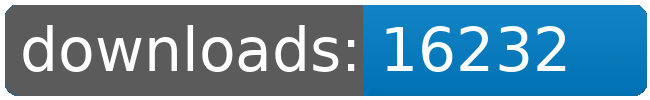
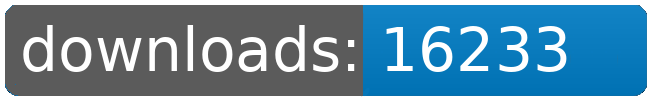
dl log written

Changed region(s): [[0.8308, 0.42, 0.8923, 0.72], [0.8, 0.27, 0.8615, 0.33]]

diff --git a/README.md b/README.md
@@ -21,8 +21,8 @@
 		<td>1925</td>
 		<td>1950</td>
 		<td>1976</td>
-		<td>1983</td>
-		<td>+ 7</td>
+		<td>1984</td>
+		<td>+ 8</td>
 	</tr>
 	<tr>
 		<td>Factory.Outlets</td>
@@ -109,8 +109,8 @@
 		<td></td>
 		<td></td>
 		<td></td>
-		<td>16232</td>
-		<td>28</td>
+		<td>16233</td>
+		<td>29</td>
 	</tr>
 </table>
 </sub></sup>
@@ -157,8 +157,8 @@
 		<td>1925</td>
 		<td>1950</td>
 		<td>1976</td>
-		<td>1983</td>
-		<td>+ 7</td>
+		<td>1984</td>
+		<td>+ 8</td>
 	</tr>
 	<tr>
 		<td>Korunak.Defense.Drones</td>
@@ -223,8 +223,8 @@
 		<td></td>
 		<td></td>
 		<td></td>
-		<td>16232</td>
-		<td>28</td>
+		<td>16233</td>
+		<td>29</td>
 	</tr>
 </table>
 </sub></sup>
